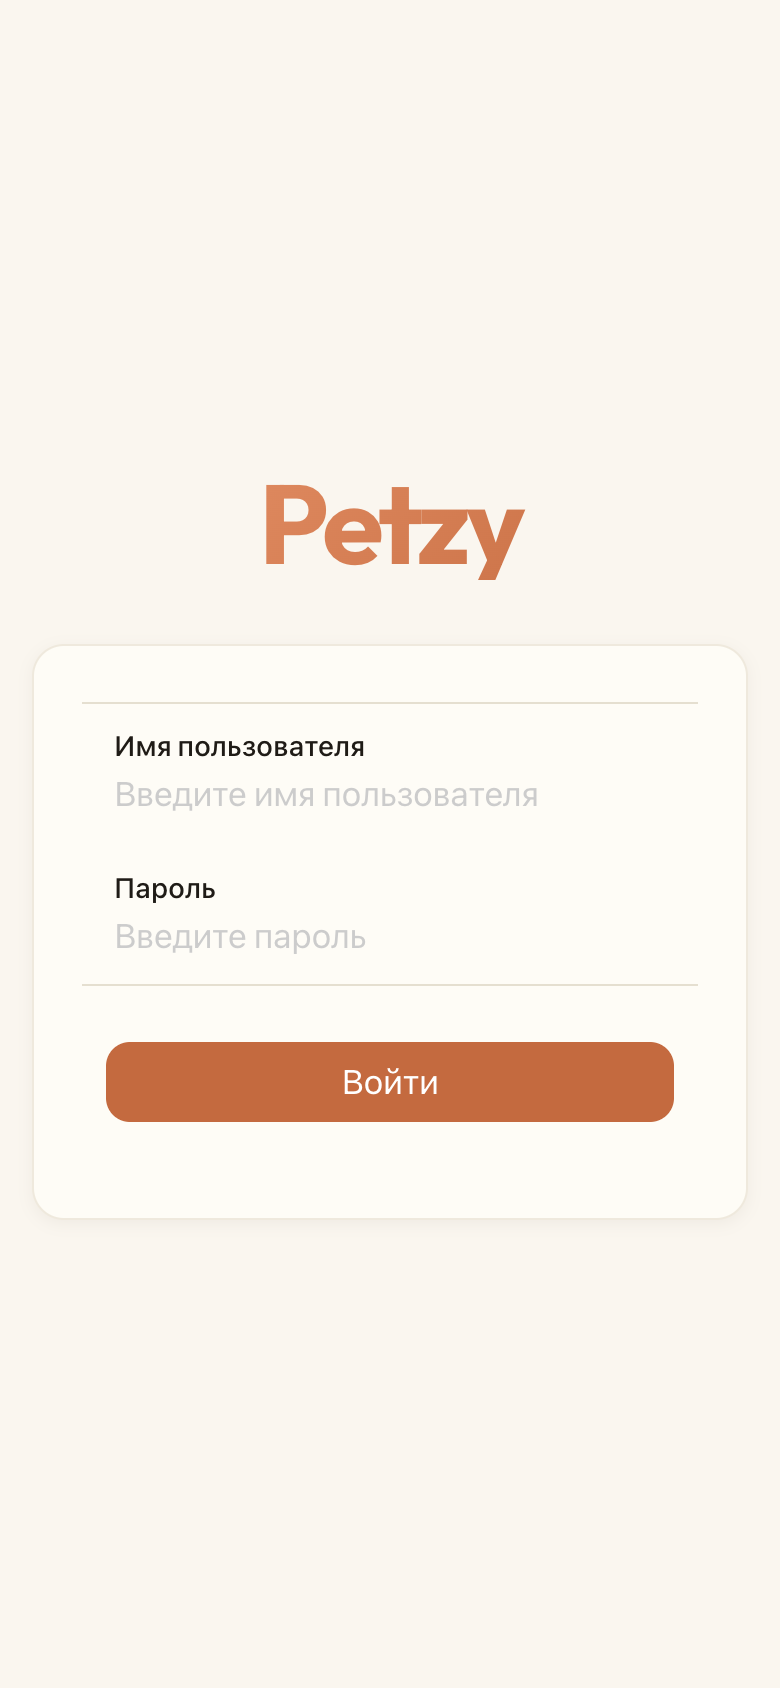
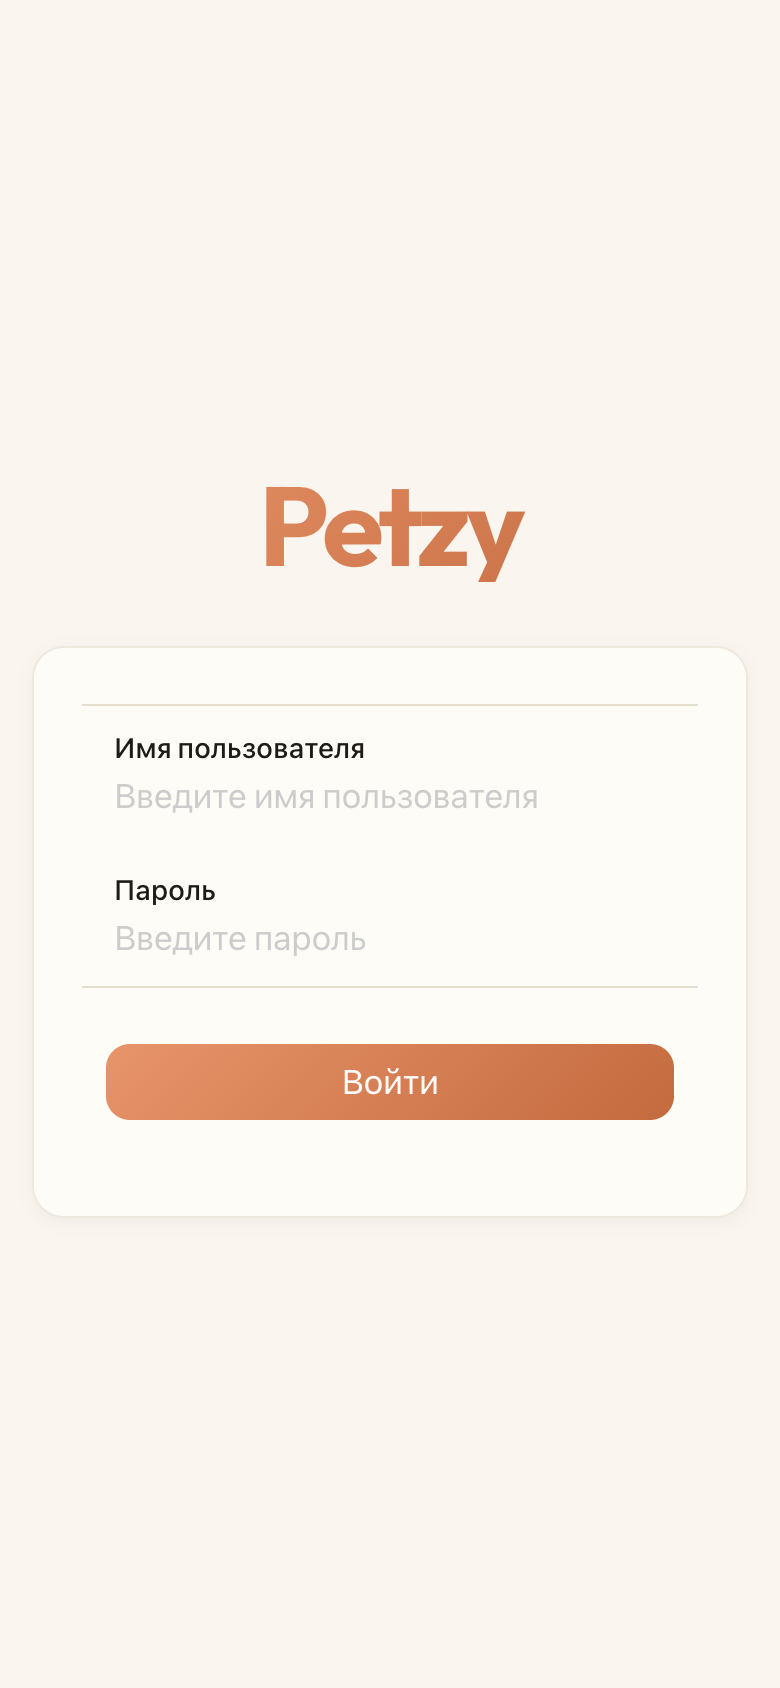
fix(ui): Login button uses brand gradient to match the Petzy wordmark
The Petzy wordmark above the form renders a copper gradient
(#E8946A → #C46A3F) via background-clip:text, while the 'Войти'
button used a solid #C46A3F. Two copper surfaces on the same screen
read as competing identities instead of one brand.

Apply the same `--app-brand-gradient` to the button — gradient on
flat solid (with `border: none` so the gradient reaches edge-to-edge).
Other CTAs (FAB, HealthForm 'Создать') stay solid for now; they're
not adjacent to the wordmark so the contrast doesn't read the same
way.

diff --git a/frontend/src/pages/Login.tsx b/frontend/src/pages/Login.tsx
@@ -92,7 +92,14 @@ export function Login() {
                 loading={isLoading}
                 disabled={isLoading}
                 type="submit"
-                style={{ marginTop: 8 }}
+                style={{
+                  marginTop: 8,
+                  // Brand gradient — matches the Petzy wordmark above so
+                  // the two copper surfaces on this screen read as the
+                  // same identity, not two competing ones.
+                  background: 'var(--app-brand-gradient)',
+                  border: 'none',
+                }}
               >
                 {isLoading ? 'Вход...' : 'Войти'}
               </Button>
